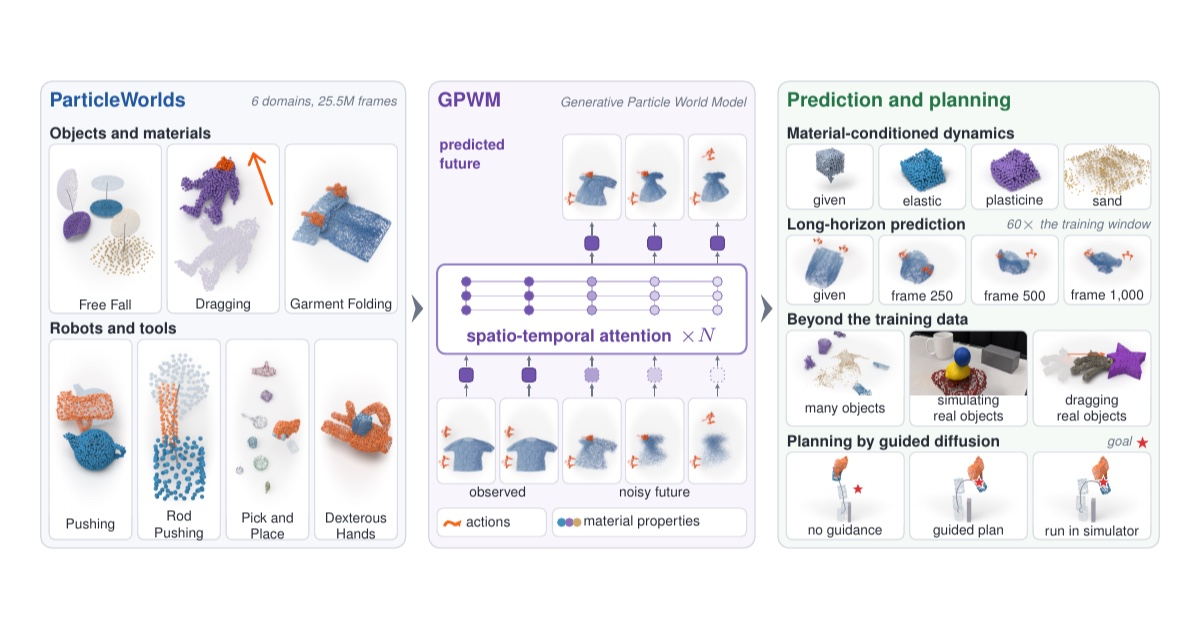
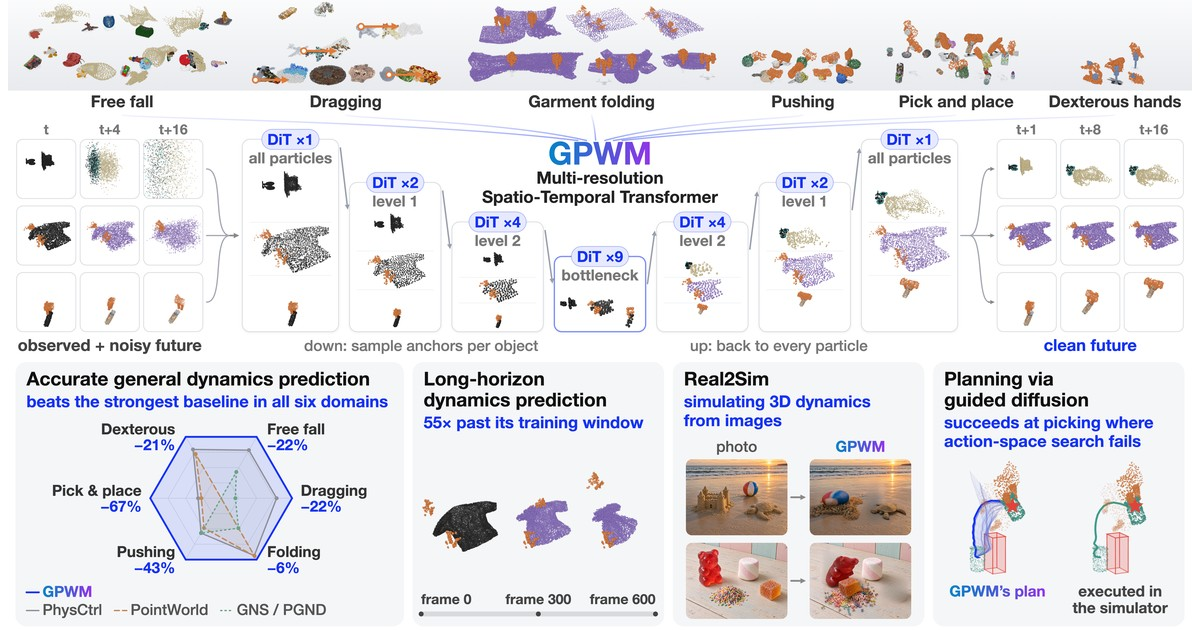
GPWM page: new title, abstract and numbers; planning in the paper's framing
- Title, heading, link-preview tags and BibTeX: "Particle Motion World Models"
- Abstract matches the paper (30% on average, noise-space planning)
- Prediction results match the final Table 1; folding note says 898 frames, 20 trajectories
- Planning section reworded to the paper's framing; the old planning numbers are hidden
- Link-preview image is the new teaser

diff --git a/gpwm/index.html b/gpwm/index.html
@@ -3,18 +3,18 @@
 <head>
 <meta charset="utf-8">
 <meta name="viewport" content="width=device-width, initial-scale=1, viewport-fit=cover">
-<title>GPWM: Generative Particle World Models for 3D Prediction and Planning</title>
+<title>Particle Motion World Models</title>
 <meta name="description" content="A generative world model that learns 3D physical dynamics directly from particle trajectories across rigid, deformable, cloth, and granular materials, and enables contact-rich planning.">
 <link rel="icon" href="favicon.svg" type="image/svg+xml">
 <meta property="og:type" content="website">
 <meta property="og:url" content="https://robertren1122.github.io/gpwm/">
-<meta property="og:title" content="GPWM: Generative Particle World Models for 3D Prediction and Planning">
+<meta property="og:title" content="Particle Motion World Models">
 <meta property="og:description" content="A generative world model that learns 3D physical dynamics directly from particle trajectories across rigid, deformable, cloth, and granular materials, and enables contact-rich planning.">
 <meta property="og:image" content="https://robertren1122.github.io/gpwm/media/og-image.jpg">
 <meta property="og:image:width" content="1200">
 <meta property="og:image:height" content="630">
 <meta name="twitter:card" content="summary_large_image">
-<meta name="twitter:title" content="GPWM: Generative Particle World Models for 3D Prediction and Planning">
+<meta name="twitter:title" content="Particle Motion World Models">
 <meta name="twitter:description" content="A generative world model that learns 3D physical dynamics directly from particle trajectories across rigid, deformable, cloth, and granular materials, and enables contact-rich planning.">
 <meta name="twitter:image" content="https://robertren1122.github.io/gpwm/media/og-image.jpg">
 <link rel="preconnect" href="https://fonts.googleapis.com">
@@ -391,7 +391,7 @@ footer .wrap { display: flex; flex-wrap: wrap; justify-content: space-between; g
 <main id="top">
   <section class="hero">
     <div class="wrap">
-      <h1>GPWM: <b>G</b>enerative <b>P</b>article <b>W</b>orld <b>M</b>odels<br class="brw"> for 3D Prediction and Planning</h1>
+      <h1>Particle Motion World Models</h1>
       <p class="authors"><span class="nw">Robert Ren<sup>1,*</sup></span>, <span class="nw">Matthew Bronars<sup>1,*</sup></span>, <span class="nw">He Zhu<sup>1</sup></span>, <span class="nw">Yikai Tang<sup>1</sup></span>, <span class="nw">Jianing Zhang<sup>1</sup></span>,<br><span class="nw">Sergey Zakharov<sup>2</sup></span>, <span class="nw">Pavel Tokmakov<sup>2</sup></span>, <span class="nw">Katerina Fragkiadaki<sup>1</sup></span></p>
       <p class="affil"><span class="nw"><sup>1</sup>Carnegie Mellon University</span>&nbsp;&middot; <span class="nw"><sup>2</sup>Toyota Research Institute</span>&nbsp;&middot; <span class="nw"><sup>*</sup>Equal contribution</span></p>
       <div class="logos"><img class="logo-cmu" src="media/logo-cmu.png" alt="Carnegie Mellon University" width="1599" height="156"><img class="logo-tri" src="media/logo-tri.png" alt="Toyota Research Institute" width="1200" height="317"></div>
@@ -403,9 +403,9 @@ footer .wrap { display: flex; flex-wrap: wrap; justify-content: space-between; g
     <div class="wrap abs-center">
       <p class="eyebrow-s">Abstract</p>
         <div class="abstract">
-          <p>We introduce GPWM, <b>a generative world model that learns 3D physical dynamics directly from particle trajectories</b>. Its shared representation and architecture covers rigid, deformable, cloth, and granular materials, in both passive physics and robotic interaction. GPWM is an <b>object-aware multi-resolution transformer</b> that combines <b>flow matching with diffusion forcing</b> to enable streaming generation far beyond the training horizon. We train and evaluate GPWM on <b>ParticleWorlds, a 25.5-million-frame corpus</b> spanning diverse geometries, physical properties, interactions, and robot embodiments.</p>
-          <p>When trained within individual domains, GPWM <b>reduces prediction error by 29&ndash;53%</b> relative to the strongest applicable prior learned-dynamics models. Going beyond the domain-specific setting of prior methods, <b>a single <i>Unified</i> GPWM</b> jointly models heterogeneous physical regimes within one set of weights. GPWM further generalizes to unseen geometries, physical properties, object counts, and rollout horizons.</p>
-          <p>Beyond prediction, GPWM enables <b>contact-rich planning</b>. An object-space goal reward is backpropagated through the learned interaction dynamics to the latent noise, steering actuator motion and the contacts it establishes. Executed open-loop in simulation, the resulting plans <b>outperform unguided generation and planning with prior learned dynamics models</b> on pushing, picking, and granular manipulation.</p>
+          <p>We introduce GPWM, a <b>G</b>enerative <b>P</b>article <b>W</b>orld <b>M</b>odel that <b>predicts how 3D scenes evolve by generating the motion of particles and rigid bodies over time</b>. Unlike video world models that generate scene appearance, GPWM operates directly in 3D physical space, modeling rigid, deformable, cloth, and granular dynamics within a common architecture. An <b>object-aware multi-resolution transformer</b> combines <b>flow matching with diffusion forcing</b> to generate coherent physical trajectories far beyond its training horizon.</p>
+          <p>We train and evaluate GPWM on ParticleWorlds, a 25.5-million-frame corpus spanning diverse geometries, materials, interactions, and robot embodiments. Across six physical domains, GPWM <b>reduces prediction error by 30% on average</b> relative to the strongest applicable prior learned-dynamics models. Going beyond the domain-specific setting of prior methods, <b>a single <i>Unified</i> GPWM</b> models heterogeneous physical regimes within one set of weights, outperforming domain-specific models in several settings. GPWM further generalizes to unseen geometries, physical properties, object counts, and rollout horizons.</p>
+          <p>Beyond prediction, GPWM enables <b>contact-rich planning</b> by learning a generative prior over joint actuator&ndash;object motion. Rather than searching directly over unconstrained actions, planning searches the model&rsquo;s latent noise to generate interactions that achieve desired object-space goals. Even using the same world model, <b>noise-space planning substantially outperforms action-space search</b> on pushing and picking, where complex contact sequences are difficult to discover. Executed open-loop in simulation, the resulting plans achieve goal-directed manipulation without reference action trajectories or goal-specific policies.</p>
         </div>
     </div>
   </section>
@@ -451,8 +451,8 @@ footer .wrap { display: flex; flex-wrap: wrap; justify-content: space-between; g
   <section class="sec" id="planning">
     <div class="wrap">
       <p class="eyebrow-s">Planning</p>
-      <h2>Reward-guided planning</h2>
-      <p class="lede">A differentiable reward specifies the desired final configuration of the passive objects. With the world model fixed, the object-space reward guides actuator motion through the learned joint dynamics, without requiring a reference actuator trajectory or training a goal-specific policy.</p>
+      <h2>Planning with a generative interaction prior</h2>
+      <p class="lede">GPWM generates actuator and object motion jointly, so planning can search its latent noise instead of raw actions. Latent noise optimization backpropagates a reward on the desired final object configuration through the generated trajectory, and the actuator part of the result is executed open-loop in simulation, with no reference action trajectory or goal-specific policy. Using the same world model, noise-space planning substantially outperforms action-space search on pushing and picking.</p>
     </div>
     <div class="pd-stage" data-scene="planning" aria-label="Guided generation on a pick-and-place task over a barrier: a block diagram of the reward's gradient flowing back to the starting noise, the loss falling over the updates of the noise, the imagined motion after each update, then the chosen plan and its execution in simulation"></div>
     <div class="pd-stage" data-scene="rwvideo" data-group="planning" role="img" aria-label="A robot arm in simulation executes three plans for the same milk carton: an unguided sample, a plan guided to a target, and a plan guided to the target over a wall."></div>
@@ -486,8 +486,8 @@ footer .wrap { display: flex; flex-wrap: wrap; justify-content: space-between; g
   <section class="sec" id="results">
     <div class="wrap">
       <p class="eyebrow-s">Results</p>
-      <h2>Prediction and planning, in numbers</h2>
-      <div class="bars" data-bars="prediction,planning"></div>
+      <h2>Prediction, in numbers</h2>
+      <div class="bars" data-bars="prediction"></div>
     </div>
   </section>
 
@@ -495,7 +495,7 @@ footer .wrap { display: flex; flex-wrap: wrap; justify-content: space-between; g
     <div class="wrap">
       <p class="eyebrow-s">BibTeX</p>
       <div class="bib"><pre id="bibtex-text">@article{ren2026gpwm,
-  title   = {{GPWM}: Generative Particle World Models for {3D} Prediction and Planning},
+  title   = {Particle Motion World Models},
   author  = {Ren, Robert and Bronars, Matthew and Zhu, He and Tang, Yikai and Zhang, Jianing
              and Zakharov, Sergey and Tokmakov, Pavel and Fragkiadaki, Katerina},
   journal = {arXiv preprint},
@@ -1076,18 +1076,18 @@ footer .wrap { display: flex; flex-wrap: wrap; justify-content: space-between; g
         { name: 'Graph/grid-based', sub: 'specialist', role: 'base' },
       ],
       tabs: [
-        { name: 'Free Fall', metric: 'mean particle position error', unit: 'mm', better: 'lower', values: [44.4, 60.6, 53.0, null, 97.2] },
-        { name: 'Dragging', metric: 'mean particle position error', unit: 'mm', better: 'lower', values: [8.8, 9.0, 7.8, null, 48.6] },
-        { name: 'Garment Folding', tab: 'Garment', metric: 'average symmetric Chamfer distance', unit: 'mm', better: 'lower', values: [34.8, 64.0, 123.3, 73.4, 159.4] },
-        { name: 'Pushing', metric: 'mean particle position error', unit: 'mm', better: 'lower', values: [17.5, 23.3, 24.5, 32.7, 158.7] },
-        { name: 'Pick and Place', tab: 'Pick & Place', metric: 'mean particle position error', unit: 'mm', better: 'lower', values: [20.3, 13.1, 34.1, 171.2, null] },
-        { name: 'Dexterous Hands', tab: 'Dexterous', metric: 'mean particle position error', unit: 'mm', better: 'lower', values: [24.7, 26.6, 24.8, 27.4, null] },
+        { name: 'Free Fall', metric: 'mean particle position error', unit: 'mm', better: 'lower', values: [44.4, 41.5, 53.0, null, 97.2] },
+        { name: 'Dragging', metric: 'mean particle position error', unit: 'mm', better: 'lower', values: [8.8, 6.1, 7.8, null, 30.4] },
+        { name: 'Garment Folding', tab: 'Garment', metric: 'average symmetric Chamfer distance', unit: 'mm', better: 'lower', values: [10.0, 10.8, 10.7, 10.6, 20.5] },
+        { name: 'Pushing', metric: 'mean particle position error', unit: 'mm', better: 'lower', values: [13.9, 18.0, 24.5, 28.7, 24.5] },
+        { name: 'Pick and Place', tab: 'Pick & Place', metric: 'mean particle position error', unit: 'mm', better: 'lower', values: [20.3, 11.1, 34.1, 39.8, null] },
+        { name: 'Dexterous Hands', tab: 'Dexterous', metric: 'mean particle position error', unit: 'mm', better: 'lower', values: [19.7, 22.6, 24.8, 27.4, null] },
       ],
       fmt: v => v.toFixed(1),                    // as printed in the paper
       short: 'Baselines and GPWM specialists are trained separately for each setting; GPWM unified uses a single model across heterogeneous settings.',
       caption: 'Prediction error in millimeters (lower is better): mean Euclidean position error over passive-object particles, ' +
-        'averaging over particles and frames and then equally across trajectories. Garment Folding reports average symmetric ' +
-        'Chamfer distance. Graph/grid-based denotes GNS or PGND, depending on the setting. N/A: not available.',
+        'averaging over particles and frames and then equally across trajectories. Garment Folding reports symmetric Chamfer ' +
+        'distance averaged over 898 predicted frames on 20 test trajectories. Graph/grid-based denotes GNS or PGND, depending on the setting. N/A: not available.',
     },
     planning: {
       label: 'Planning',
